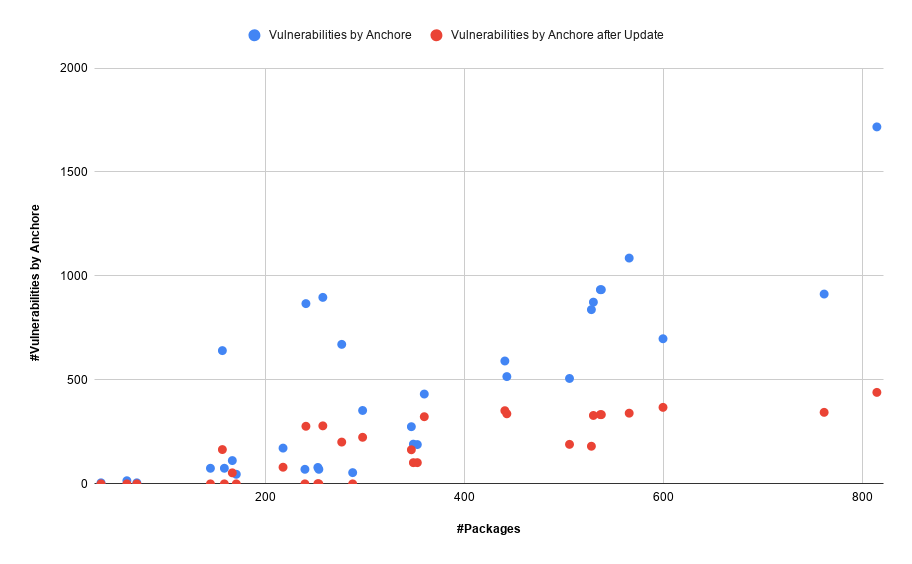
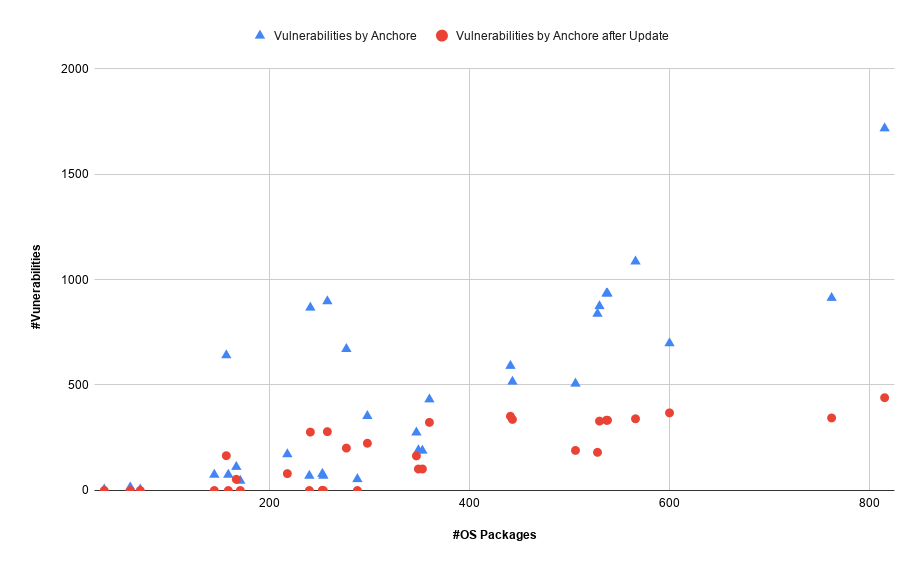
added modifications

diff --git a/paper.tex b/paper.tex
@@ -425,6 +425,11 @@ that drawback, another tool from CoreOS, Clair Scanner can be used. It scans ima
 vulnerabilities, compares that list against the whitelist, and flags vulnerabilities
 that are not present in whitelist.
 Clair Scanner refers to Ubuntu CVE tracker for getting Ubuntu vulnerability feed.
+For that purpose a Docker image is maintained that contains Ubuntu CVE tracker database.
+Whenever Ubuntu updated its database, this image is also updated with the required information.
+We performed scanning on 2019-09-25 and for our experiments, we used a Docker image that was 
+latest updated i.e with the tag 2019-09-18. So it means that Clair Scanner's database was
+old by one week.
 
 \subsubsection{Stools}
 
@@ -472,11 +477,12 @@ vulnerabilities present inside the image.
 
 \subsection{Existing Vulnerabilities}
 
-Figure~\ref{table1} shows results of scanning BIDS and Boutiques images with three scanners namely Anchore,
-Clair scanner and Vuls. Venn Diagram in Figure~\cite{fig:venn} summarizes this table. It is interesting to note that
-Anchore reports 4453 different vulnerabilities, which is way more than both Clair and Vuls.
-Additionally, we notice that Alpine and Centos OS distributions have less number of vulnerabilities as
-compared to Ubuntu and Debian.
+Figure~\ref{fig:graph1} represents the number of vulnerabilities that are present inside images.
+This figure shows that as the number of packages increases in the image, the number of vulnerabilities
+also get increased for Ubuntu OS distribution. The figure also infers that Alpine distribution, being the
+light weight distribution, have least number of vulnerabilities, whereas Ubuntu contains highest number of
+vulnerabilities. Debian contains highest number of critical vulnerabilities among Ubuntu, Alpine, and Centos.
+
 \begin{table}
 \csvreader[%
  respect all,%
@@ -492,6 +498,23 @@ compared to Ubuntu and Debian.
 	\caption{\label{table1}Existing number of Vulnerabilities}
 \end{table}
 
+\begin{table}
+\csvreader[%
+ respect all,%
+  before reading=\footnotesize\sisetup{round-mode=places,round-precision=2,round-integer-to-decimal}
+      \begin{adjustbox}{max width=\columnwidth},
+  after reading=\end{adjustbox},
+ tabular={c|c},
+	table head ={Image Tag} & {Image Name}\\\hline,
+ late after line= \\,
+        late after last line=\\\hline %\multicolumn{5}{c}{Total Score: 1481}
+]{names.csv}{}{\csvlinetotablerow}%
+       \centering
+	\caption{\label{table2}Image names}
+\end{table}
+
+
+
 \begin{figure}[!htb]
         {\includegraphics[scale=2.5,width=\columnwidth]
         {Figures/vennDiagram.png}}
@@ -500,28 +523,35 @@ compared to Ubuntu and Debian.
 
 \begin{figure}[!htb]
         {\includegraphics[scale=2,width=\columnwidth]
-        {Figures/vulngraph.png}}
+        {Figures/vulngraph4.png}}
         \caption{\label{fig:graph1} Scatterplot representing \#Packages and \#Vulnerabilities}
       \end{figure}
 
 \subsection{Comparisons between Scanners}
 
-The number and type of vulnerabilities reported by these scanners are drastically different from each other.
+Figure~\ref{table1} shows results of scanning BIDS and Boutiques images with three scanners namely Anchore,
+Clair scanner and Vuls. Venn Diagram in Figure~\cite{fig:venn} summarizes this table. It is interesting to note that
+Anchore reports 4453 different vulnerabilities, which is way more than both Clair and Vuls.
+
+The number and type of vulnerabilities reported by three scanners are drastically different from each other.
 The question arises why these scanners report different number and type of vulnerabilities.
 How their logic differs and what exactly is making these results different than each other.
-According to our investigation of these results precisely, below are some of the reasons of
+
+According to our investigation of these results, below are some of the reasons of
 getting different results from these scanners. These reasons include bugs in scanners,
 some scanners ignoring vulnerabilities in a particular package, referring to different databases,
-how frequently they are updating their databases, etc,. We have explained these differences below in detail
+how frequently they are updating their databases, etc. 
+
+We have explained these differences below in detail
 and have provided an example with each reason to make it clear.
 
-Venn Diagram~\cite{fig:venn} illustrates that Anchore reports 4453 different vulnerabilities that are reported
+Venn Diagram~\ref{fig:venn} illustrates that Anchore reports 4453 different vulnerabilities that are reported
 by Vuls and Clair. Out of this 4443 vulnerabilities are present in linux-kernel-headers. These are ignored by
 both Clair and Vuls.
 
-\textbf{Linux Package-} Clair and Vuls are ignoring all vulnerabilities in the "Linux” package
-which is linux-kernel-headers. 4443 out of 4453 vulnerabilities difference is due to linux-kernel-headers.
-For example CVE-2019-9506 is not detected by.
+\textbf{Linux-Kernel-Headers-} Clair Scanner and Vuls are ignoring all vulnerabilities in the Linux-kernel-headers.
+4443 out of 4453 vulnerabilities difference is due to linux-kernel-headers.
+For example CVE-2019-9506 present in linux-libc-dev-4.4.0-31.50 is not detected by both Vuls and Clair Scanner
 
 \textbf{With Status as “Not-affected”-} It means these vulnerabilities are affecting Ubuntu but they are not 
 affecting particular Ubuntu release that is present inside the image. The reason why its not affecting 
@@ -529,38 +559,42 @@ that release is also mentioned. For example, one reason can be that code which i
 present in that release etc. In other words, we can say that these are false positives by Vuls.
 For example CVE-2015-2305 is not affecting package cups in Trusty.
 
-\textbf{Ignored(reached end-of-life)-} These vulnerabilities are ignored in Ubuntu 14.04 LTS as it reached end-of-life 
-but does not exist (status as “DNE”) in Ubuntu 14.04 ESM release. As Clair is only referring Ubuntu 14.04 ESM 
-release it do not detect these vulnerabilities. For example CVE-2017-9994.
+\textbf{With status as "Ignored(reached end-of-life)"-} Some vulnerabilities have status as “ignored (reached end-of-life)”.
+These vulnerabilities are "ignored" in Ubuntu 14.04 LTS as it reached end-of-life. 
+However, in Ubuntu 14.04 ESM release these vulnerabilities can be present or not.
+Anchore checks the last status of these vulnerabilities whether OS package was vulnerable to the cve
+prior to the end-of-life. If it was vulnerable only then Anchore will report it, otherwise not.
+If this kind of vulnerability is present in ESM release then Clair will report it because Clair Scanner
+only refers ESM release. On the other hand, if the vulnerability
+status in ESM release is "DNE", which means does not exist, then Clair Scanner will not report it. 
+For example CVE-2017-9994 vulnerability. As Ubuntu LTS release is present inside the images so
+Clair Scanner's reference to ESM release is wrong here.
 
-\textbf{Not present in Ubuntu 14.04 ESM release-} These vulnerabilities are not present in Ubuntu 14.04 ESM so they 
+\textbf{Vulnerabilities not present in Ubuntu 14.04 ESM release-} These vulnerabilities are not present in Ubuntu 14.04 ESM so they 
 are not detected by Clair but they affect Ubuntu 14.04 LTS That’s why detected by Vuls. For example, CVE-2017-1375.
 
 \textbf{False negatives by Clair-} Clair is missing vulnerabilities that it should detect. For example CVE-2016-9082 
 is present in package cairo in Xenial release and it is not detected by Clair.
 
-\textbf{False positives by Clair-}These vulnerabilities are not linked to Ubuntu 14.04 LTS which is 
+\textbf{False positives by Clair-} These vulnerabilities are not linked to Ubuntu 14.04 LTS which is 
 present inside the image but Clair is showing because these vulnerabilities are present in Ubuntu 14.04 ESM and 
 Clair is only referring to Ubuntu 14.04 ESM release. For example CVE-2019-1274.
 
-\textbf{Database difference-} Clair is using a Docker image for database. So it is not updated everyday. 
-		When I scanned images I used the latest available container. For example CVE-2019-5094 was not 
-		updated in Clair container that time.
+\textbf{Database difference-} As we discussed earlier that Clair Scanner's database was old by one week.
+                So some of the vulnerabilities were not updated yet. For example CVE-2019-5094, which
+		was published on 2019-09-24, was not 
+		updated in Clair Scanner's database that time. Due to which it is missed by Clair Scanner.
 
-\textbf{Epoch bug-} There is a bug in the Anchore logic due to which some vulnerabilities are 
+\textbf{Epoch bug-} There is a bug in the Anchore scanner due to which some vulnerabilities are 
 		not detected by Anchore. This bug gets triggered when package’s version have epoch 
 		(1:3.3.9-1ubuntu2.3)  in it. For example CVE-2018-1125 in procps package.
 
-\textbf{Ignored (out of standard support) bug-} There is another bug in Anchore due to 
+\textbf{with status as "Ignored (out of standard support)" bug-} There is another bug in Anchore due to 
 		which it is not able to detect some vulnerabilities. Due to this bug Anchore does not detect 
 		vulnerabilities which have a status as “ignored (out of standard support)” in Ubuntu 14.04 LTS. 
 		But if this vulnerability is present in Ubuntu 14.04 ESM release it is detected by Clair. 
 		For example CVE-2019-13565 in Ubuntu 14.04.
 
-\textbf{Ignored (reached end-of-life)-}Some vulnerabilities have status as “ignored (reached end-of-life)” 
-		so Anchore checks the last status of these vulnerabilities whether OS package was vulnerable to the cve 
-		prior to the end-of-life. If it was vulnerable only then Anchore will report it, otherwise not. But this 
-		vulnerability is present in Ubuntu 14.04 ESM release so Clair is reporting that. For example CVE-2019-9924.
 
 \textbf{False Negatives by Vuls-} Vuls is missing some of the vulnerabilities that it should detect. 
 		For example CVE-2019-5094
